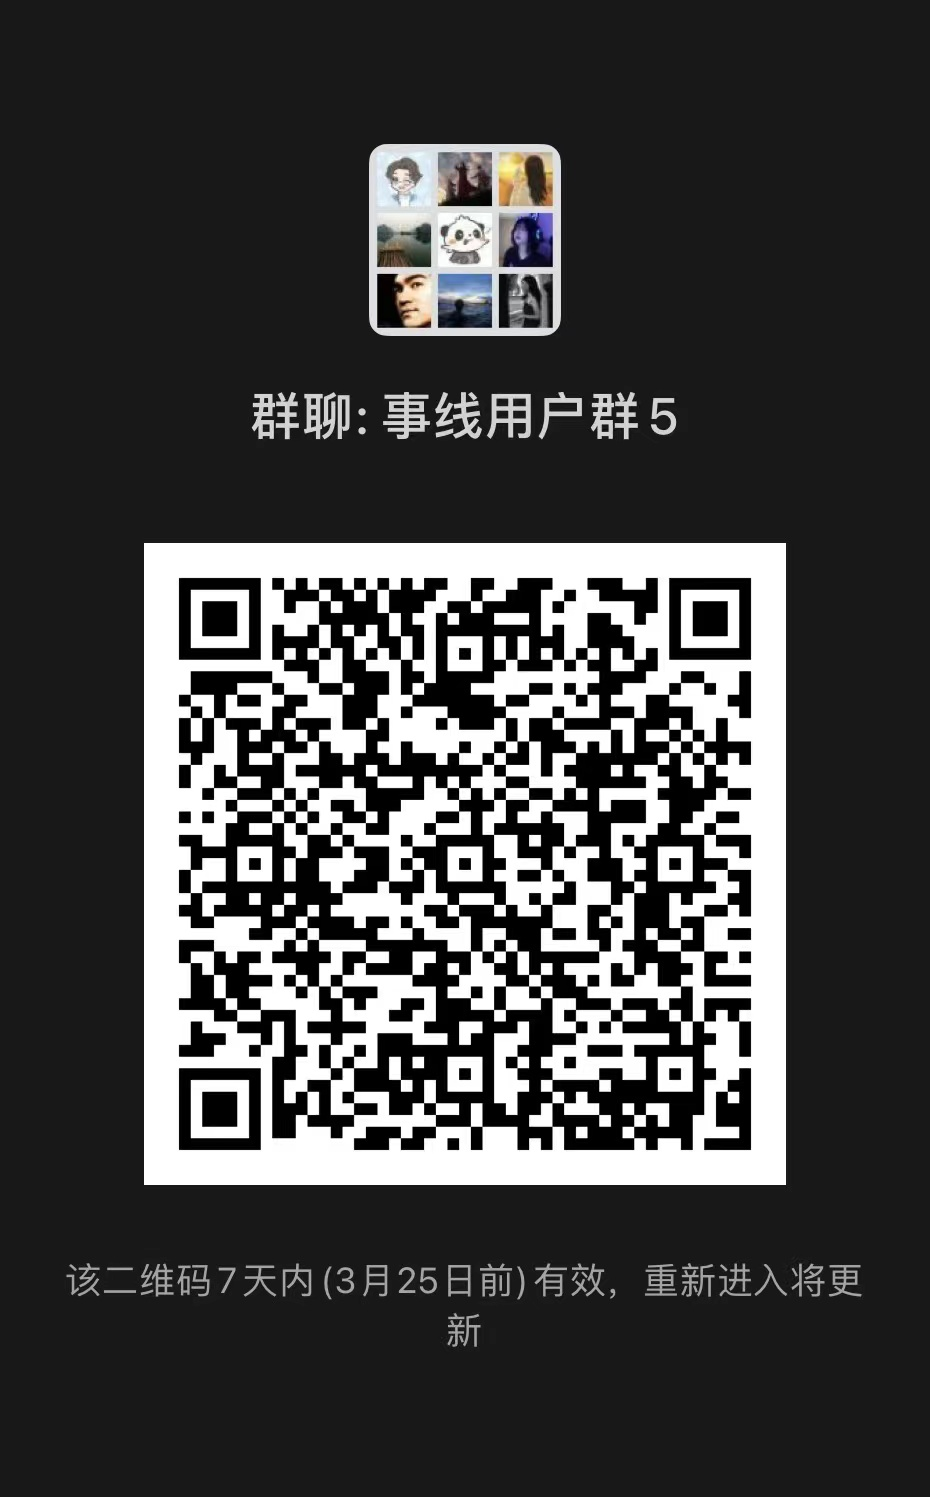
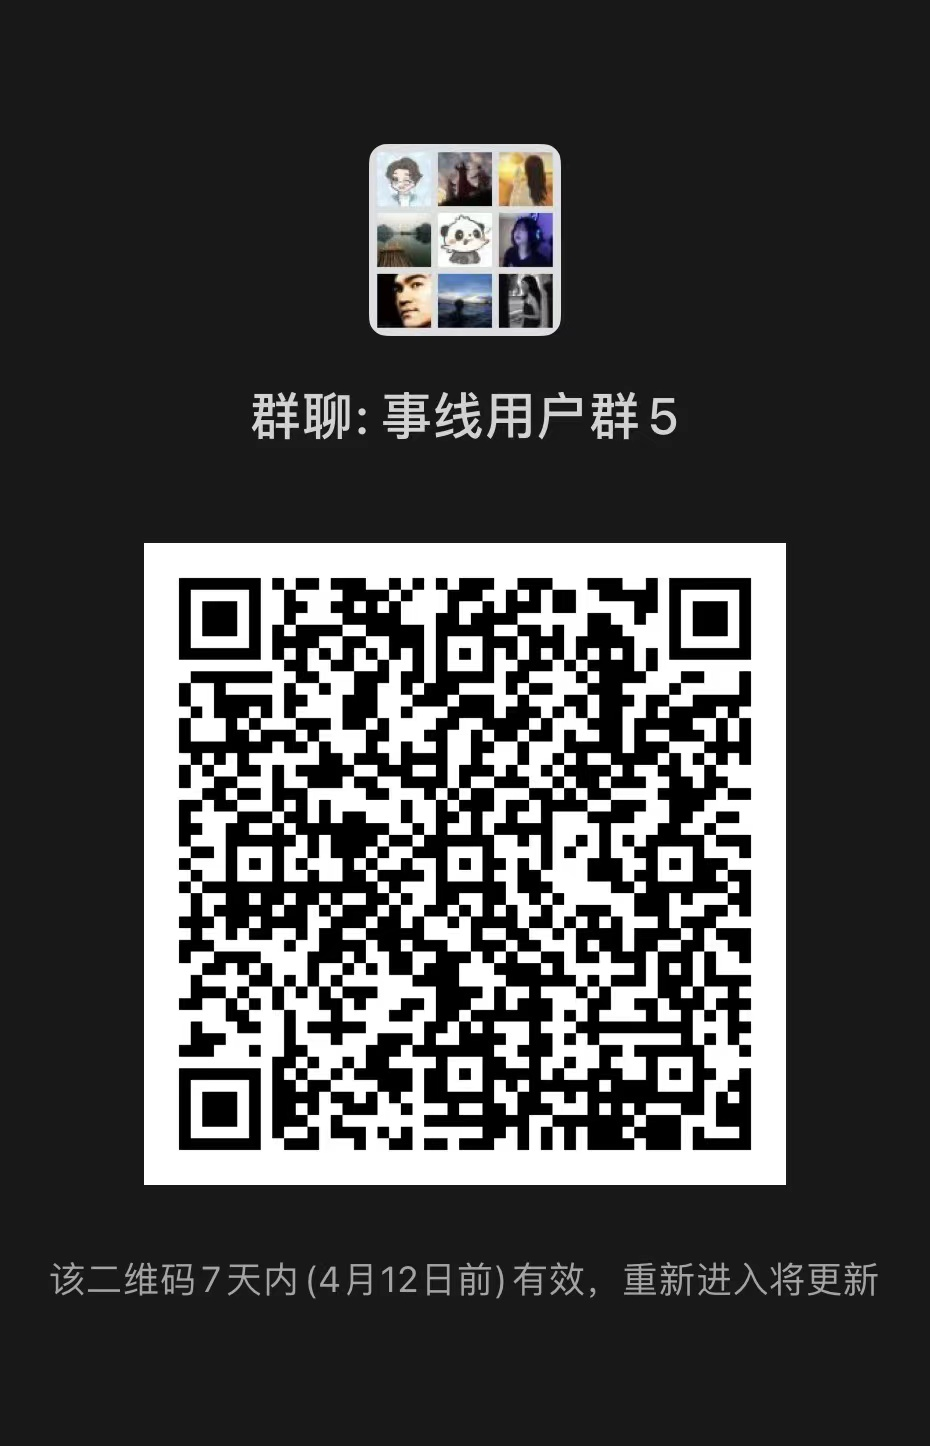
update vx

Changed region(s): [[0.0624, 0.3423, 0.9355, 0.9025], [0.2495, 0.0934, 0.7484, 0.3112]]

diff --git a/pages/user.md b/pages/user.md
@@ -2,7 +2,7 @@
 title: 用户群
 ---
 
-# 用户群
+# 用户群 （4.12过期）
 
 <img src="/img/vx.jpg" class="no-zoom" style="margin: 10px;border-radius: 15px;margin: 2rem 0;box-shadow: 0 0px 20px rgb(0 0 0 / 20%);">
 
